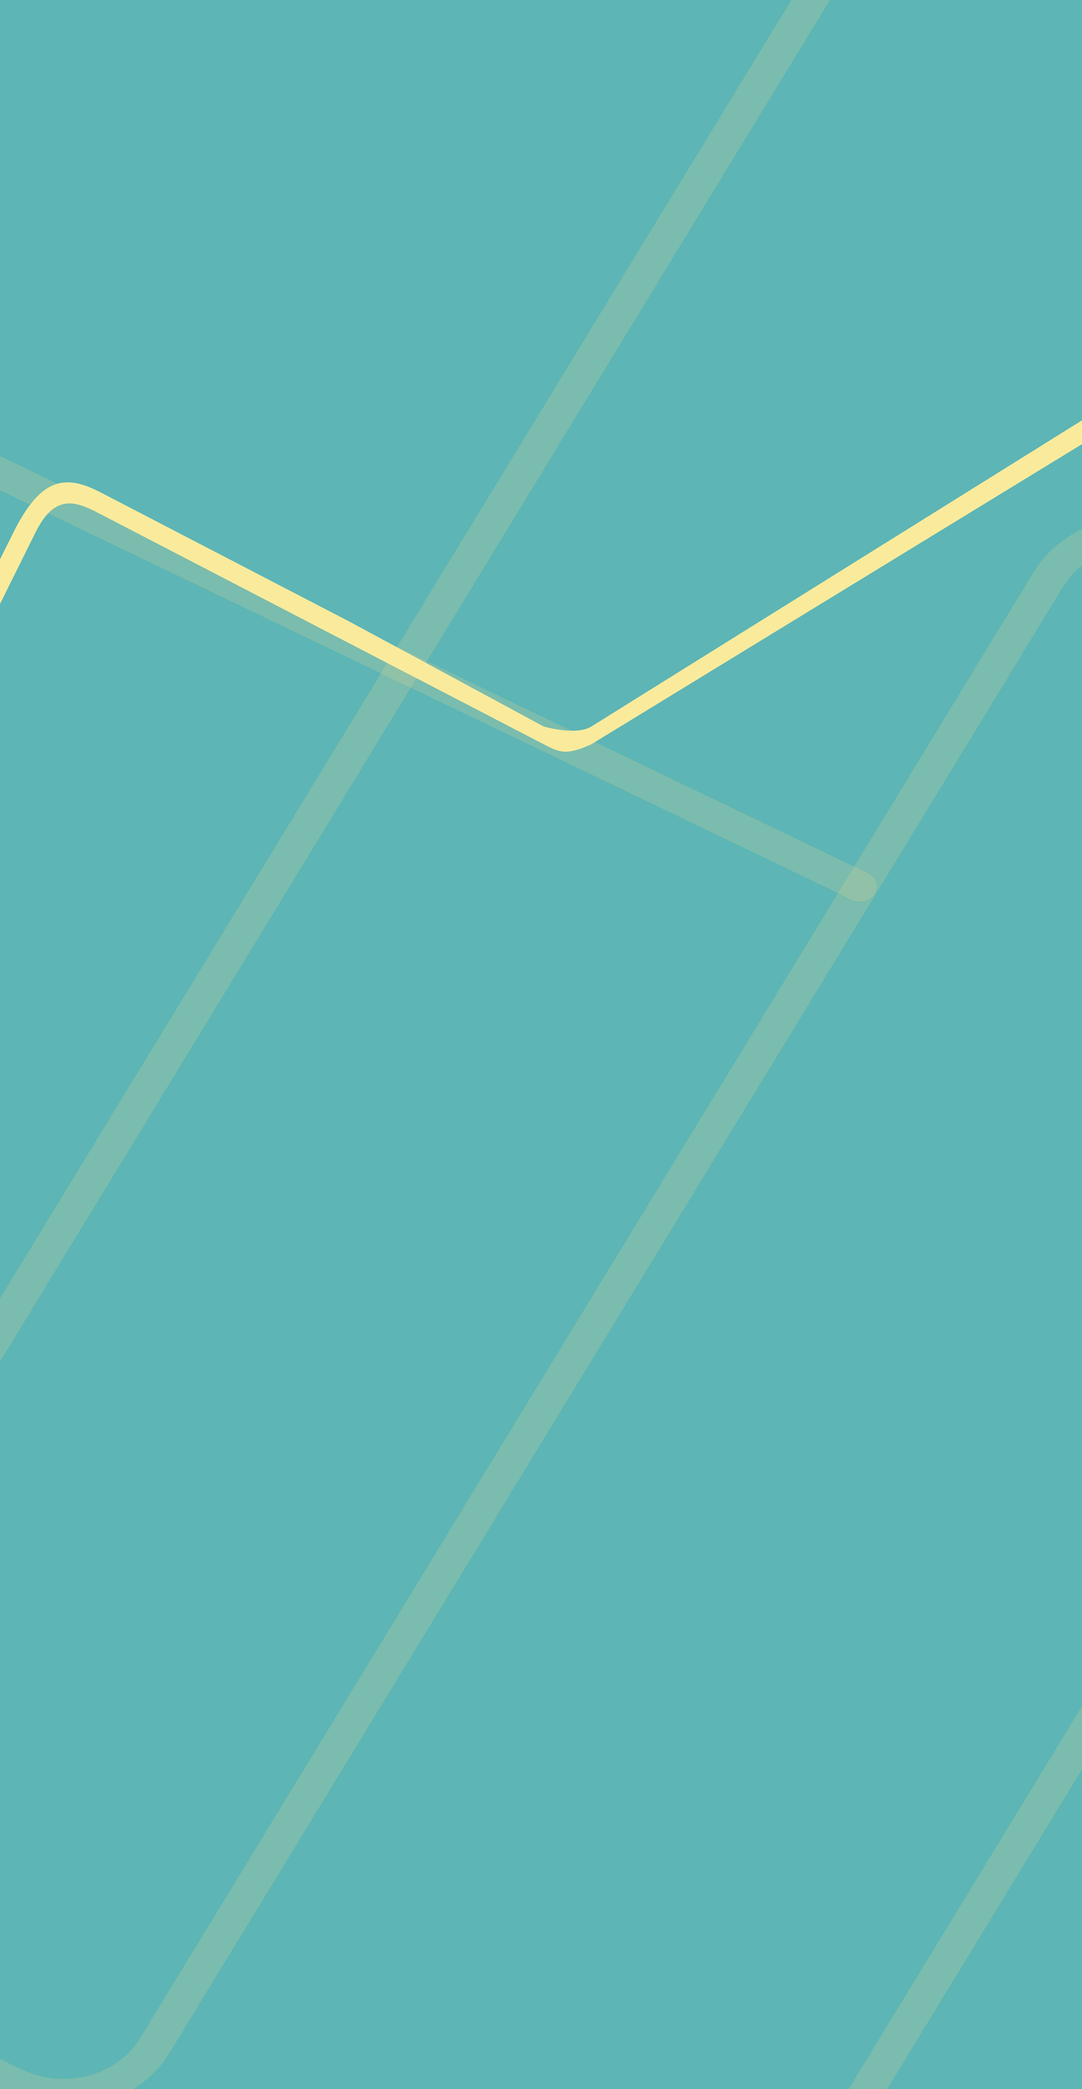
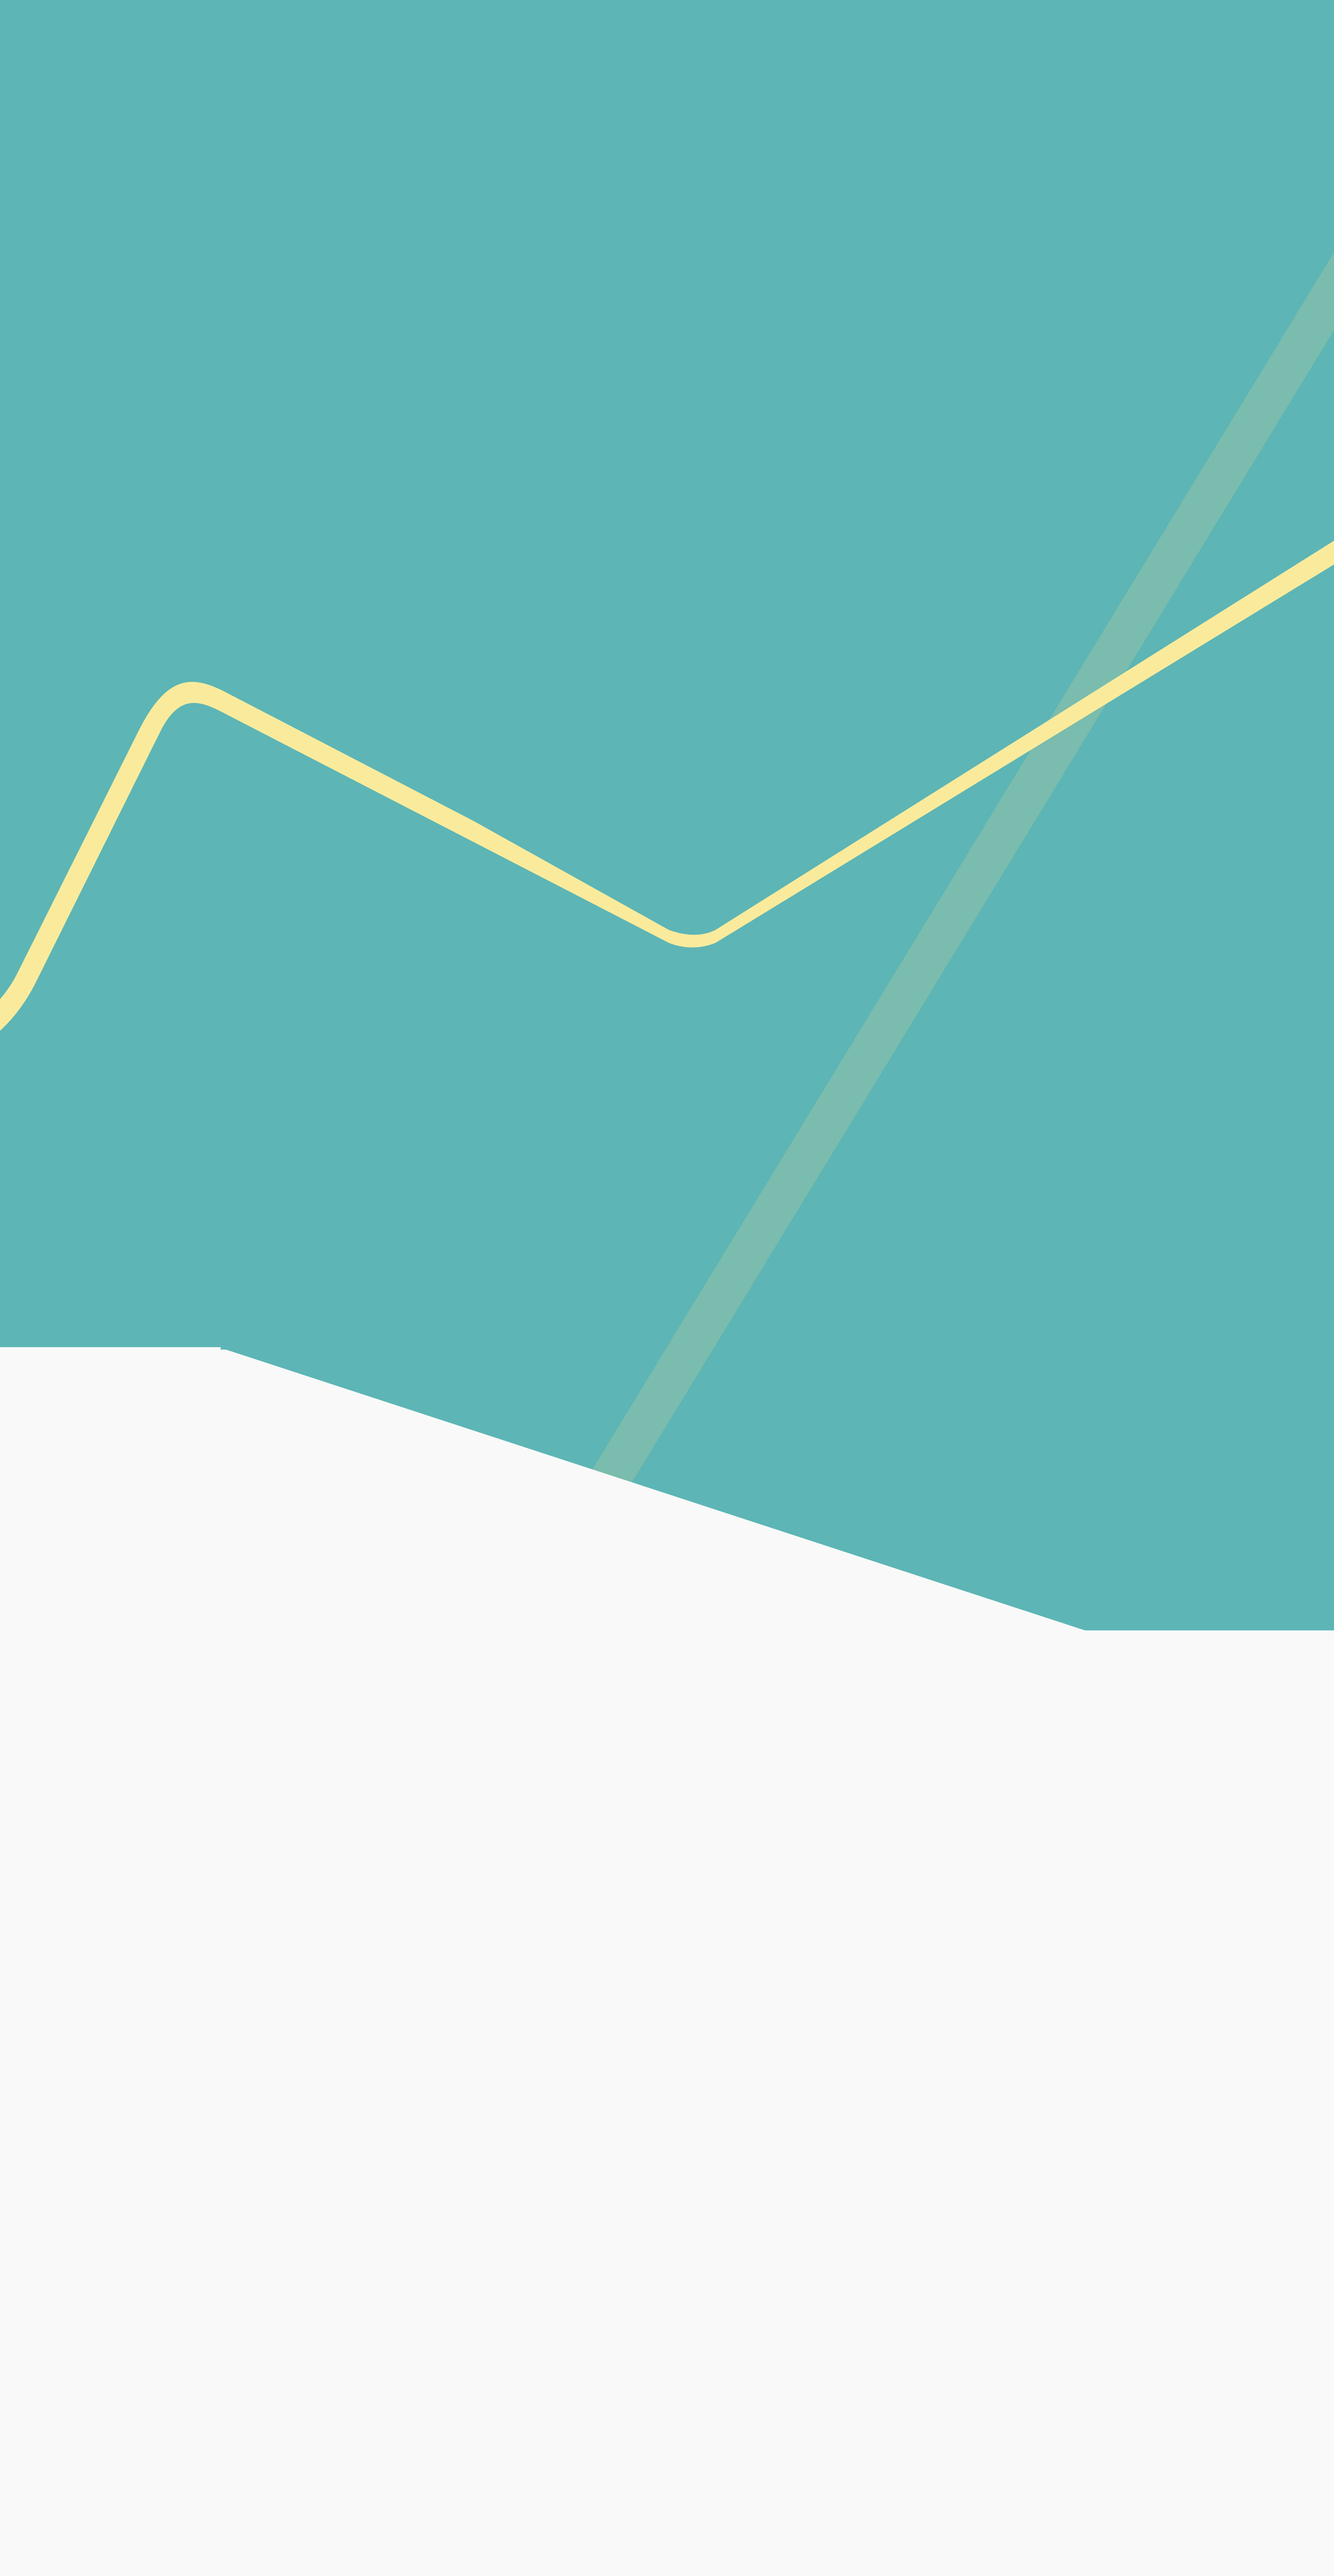
landing page finished

diff --git a/app/assets/stylesheets/pages/_intro.scss b/app/assets/stylesheets/pages/_intro.scss
@@ -1,0 +1,145 @@
+.center-style {
+  text-align: center;
+}
+
+.center-align {
+  align-items: center;
+}
+
+.home-box-center {
+  width: 100%;
+  align-items: center;
+}
+
+.image-background-home {
+ // background-color: #5DB5B5;
+  background-image: url('homepage.png');
+  background-position: center;
+  background-size: cover;
+  position: fixed;
+  bottom: 0;
+  top: 0;
+  left: 0;
+  right: 0;
+  width: 100%;
+  height: 100%;
+}
+
+.bungee-font-home {
+  font-family: 'Bungee Inline', cursive;
+  font-size: 45px;
+  margin-top: 50px;
+  color: white;
+  text-align: right;
+  position: relative;
+  width: 275px;
+}
+
+.home-review {
+  position: fixed;
+  bottom: 200px;
+  height: 100px;
+  width: 50%;
+  left: 0;
+  background-color: #F9F9F9;
+}
+
+.black-box {
+  position: fixed;
+  bottom: 0;
+  height: 200px;
+  width: 100%;
+  left: 0;
+  background-color: black;
+}
+
+.search-home {
+  margin-left: 27%;
+}
+
+.search-button-home {
+  color: #fff;
+  background-color: #003465;
+  border-color: #343a40;
+  align-items: center;
+}
+.search-box-home {
+  radius: 3px;
+  margin-left: 20%;
+  width: 62%;
+  margin-bottom: 5px;
+  border: 1px solid black;
+  background-color: white;
+}
+.search-input-home {
+  width: 100%;
+  font-family: Nunito;
+  font-style: italic;
+  font-weight: 300;
+  color: black;
+  text-align: center;
+}
+
+.home-box-center {
+  margin-top: 30px;
+}
+
+.white-underline-home {
+  margin-left: 10%;
+  margin-right: 10%;
+  background-color: rgba(0,0,0,0);
+  border: 3px solid white;
+  width: 80%;
+  height: 10px;
+  z-index: 1;
+}
+
+.bungee-font-how-to {
+  font-family: 'Bungee Inline', cursive;
+  font-size: 45px;
+  margin-top: 2%;
+  color: white;
+  text-align: center;
+  position: relative;
+  width: 100%;
+}
+
+.review-text {
+  margin-bottom: 0;
+  font-family: Nunito;
+  font-style: italic;
+  font-weight: 300;
+}
+.color-change-p {
+  color: #4ED1E3 !important;
+}
+
+.color-change {
+  color: #003465 !important;
+}
+
+.color-white-home {
+  color: #C4C4C4 !important;
+}
+
+.bungee-font-p {
+  font-family: 'Bungee inline';
+  font-weight: 200 !important;
+  font-size: 15px;
+  margin-right: 10%;
+  color: white;
+  text-align: center;
+  position: relative;
+  width: 100%;
+}
+
+.bungee-font-name {
+  font-family: 'Bungee Inline';
+  font-size: 15px;
+  margin-top: 0;
+  margin-left: 30%;
+  color: black;
+  text-align: left;
+  position: relative;
+  width: 400px;
+}

diff --git a/app/assets/stylesheets/components/_container.scss b/app/assets/stylesheets/components/_container.scss
@@ -26,6 +26,14 @@ a {
   left: 0;
 }
 
+.bottom-img-friends {
+  opacity: 0.9;
+  position: fixed;
+  z-index:-1;
+  bottom: 0;
+  height: 500px;
+  width: 100% !important;
+}
 .add-stop {
   text-align: left;
   border-radius: 4px;
@@ -35,29 +43,3 @@ a {
   display:block;
   box-sizing: border-box;
 }
-
-.center-style {
-  text-align: center;
-}
-
-.image-background-home {
- // background-color: #5DB5B5;
-  background: linear-gradient(5deg, white 30%, rgba(0, 0, 0, 0) 30%), url('homepage.png');
-  background-position: center;
-  background-size: cover;
-  position: fixed;
-  bottom: 0;
-  top: 0;
-  left: 0;
-  right: 0;
-  width: 100%;
-  height: 100%;
-}
-.bungee-font-home {
-  font-family: 'Bungee Inline', cursive;
-  font-size: 45px;
-  margin-top: 70px;
-  color: #413E44;
-  text-align: center;
-  position: relative;
-  }

diff --git a/app/assets/stylesheets/pages/_index.scss b/app/assets/stylesheets/pages/_index.scss
@@ -3,3 +3,4 @@
 @import "user-show";
 @import "event-show";
 @import "friend-show";
+@import "intro";
